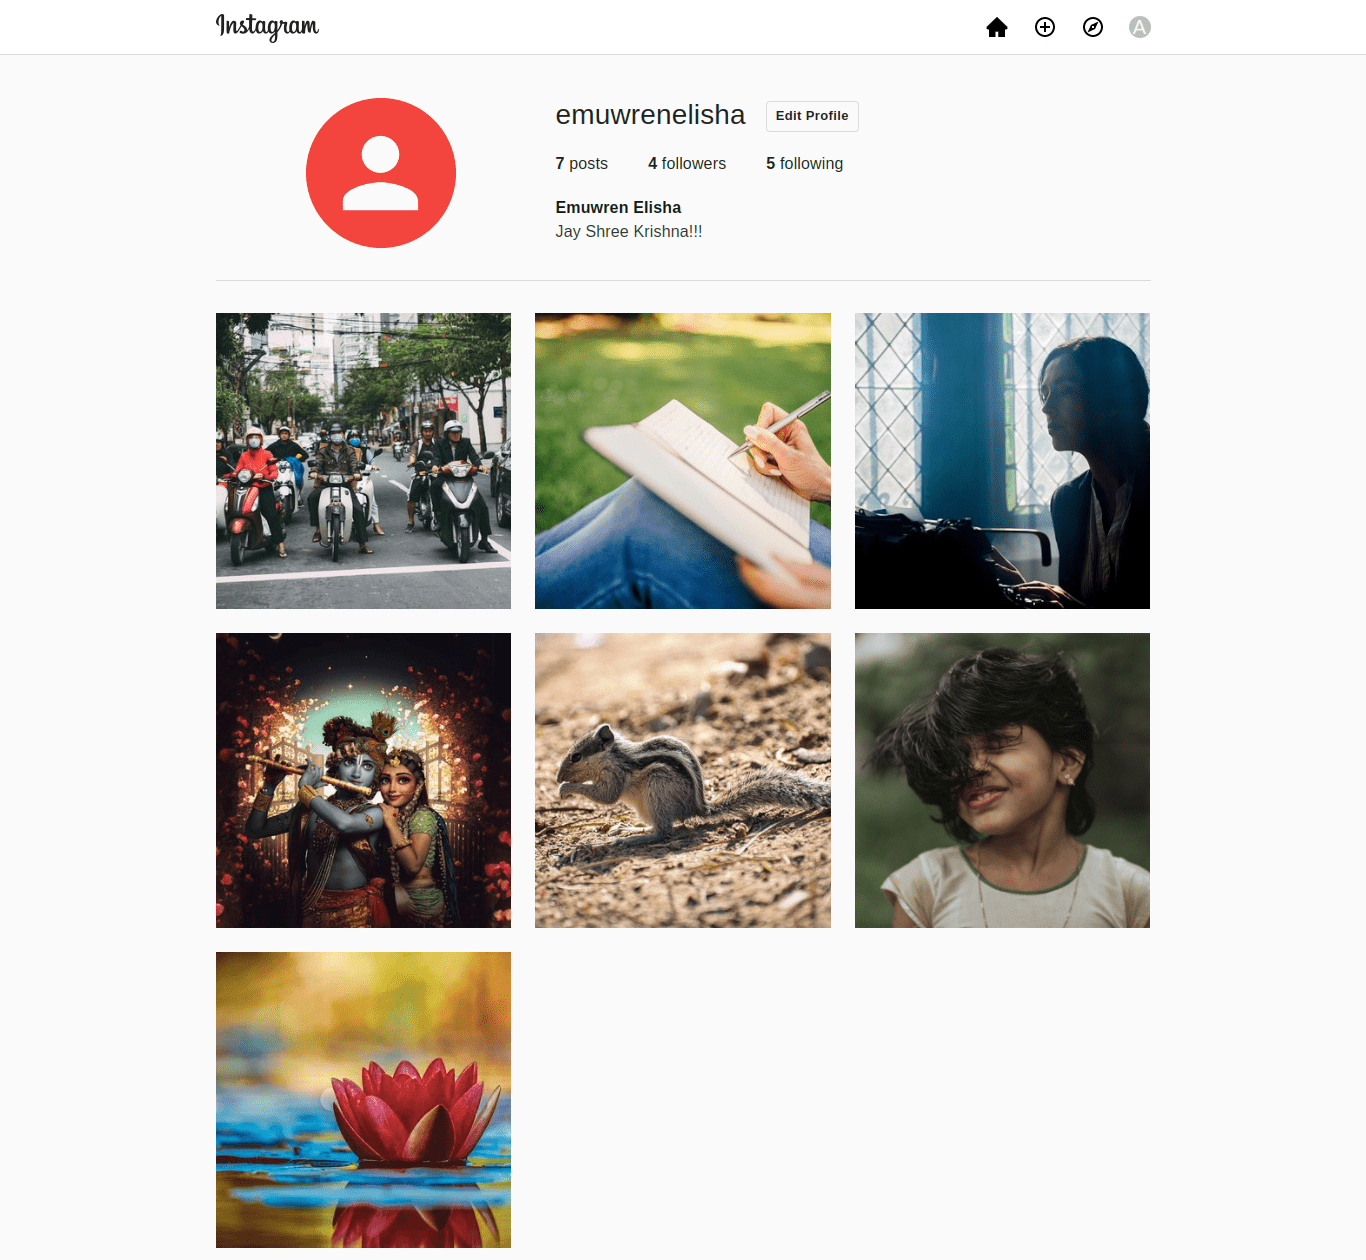
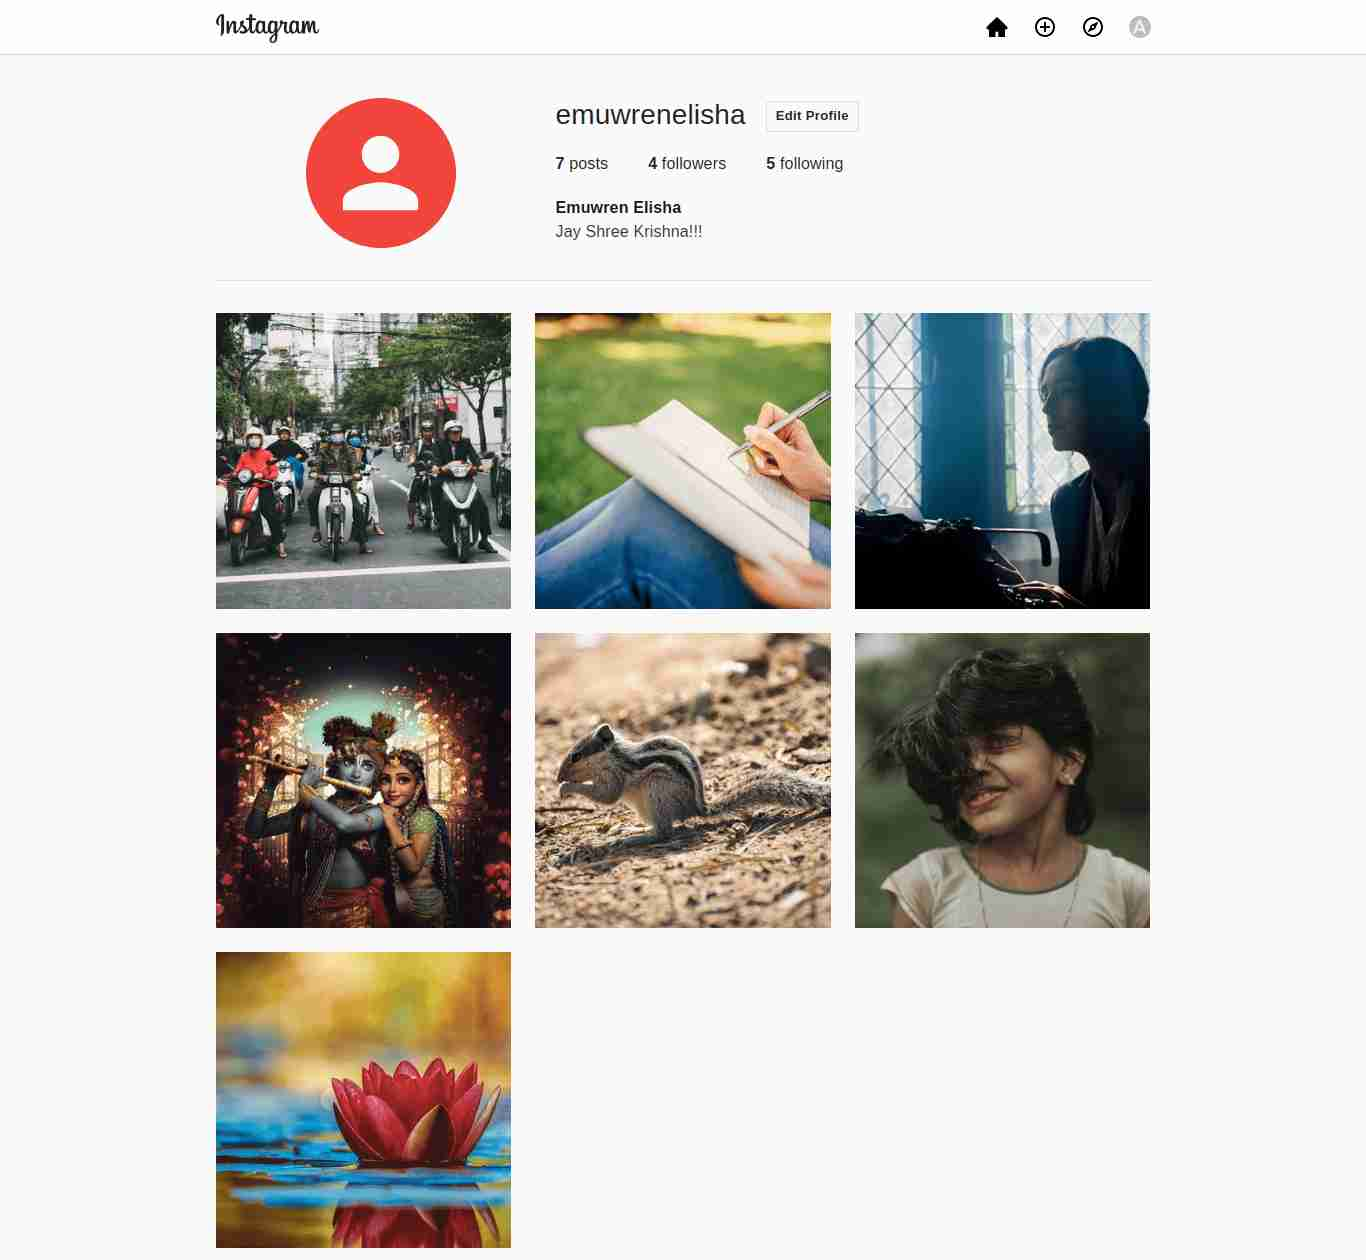
modified portfolio image size

diff --git a/src/pages/Codepen.jsx b/src/pages/Codepen.jsx
@@ -48,21 +48,13 @@ const CodepenCard = ({ id }) => {
 }
 
 const Codepen = () => {
-  const [items, setItems] = useState([])
   const [currentShow, setCurrentShow] = useState(0);
-
-
-  useEffect(() => {
-    setItems(codepens);
-    setCurrentShow(Math.floor(Math.random() * codepens.length))
-  }, [])
-
   const handlePrevClick = () => {
     if (currentShow > 0) {
       setCurrentShow((currentShow) => currentShow - 1);
     } else {
-      if (items.length > 0) {
-        setCurrentShow(items.length - 1);
+      if (codepens.length > 0) {
+        setCurrentShow(codepens.length - 1);
       } else {
         setCurrentShow(0);
       }
@@ -70,10 +62,10 @@ const Codepen = () => {
   }
 
   const handleNextClick = () => {
-    if (currentShow < items.length - 1) {
+    if (currentShow < codepens.length - 1) {
       setCurrentShow((currentShow) => currentShow + 1);
     } else {
-      if (currentShow >= items.length - 1) {
+      if (currentShow >= codepens.length - 1) {
         setCurrentShow(0);
       } else {
         setCurrentShow(0);
@@ -84,7 +76,7 @@ const Codepen = () => {
   return (
     <Section id='codepen' title='Codepen'>
       <div className='codepen-cards'>
-        <CodepenCard id={items[currentShow]}  />
+        <CodepenCard id={codepens[currentShow]} />
 
         <div className='d-flex justify-content-center'>
           <button

diff --git a/src/assets/portfolio/compress.php b/src/assets/portfolio/compress.php
@@ -1,0 +1,56 @@
+<?php
+// Function to compress images
+function compress_images($directory, $minSize, $quality = 20) {
+    // Step 1: Get all files in the directory with jpg, jpeg, or png extensions
+    $files = glob($directory . '/*.{jpg,jpeg,png}', GLOB_BRACE);
+    
+    echo ("Compressing...");
+    print_r($files);
+
+    // Step 2: Iterate through each file
+    foreach($files as $file) {
+
+        echo(fileSize($file));
+        // Step 3: Get the file size
+        $fileSize = filesize($file);
+
+        // Step 4: Check if the file size is greater than the minimum size
+        if ($fileSize > $minSize) {
+            // Step 5: Get the file extension
+            $extension = strtolower(pathinfo($file, PATHINFO_EXTENSION));
+
+            // Step 6: Check if the file is an image (jpg, jpeg, png)
+            if (in_array($extension, ['jpg', 'jpeg', 'png'])) {
+                // Step 7: Load the image based on its extension
+                switch ($extension) {
+                    case 'jpg':
+                    case 'jpeg':
+                        $image = imagecreatefromjpeg($file);
+                        break;
+                    case 'png':
+                        $image = imagecreatefrompng($file);
+                        break;
+                    default:
+                        break; // Skip unsupported file types
+                }
+
+                // Step 8: Compress the image
+                imagejpeg($image, $file, $quality);
+
+                // Step 9: Free up memory by destroying the image resource
+                imagedestroy($image);
+            }
+        }
+    }
+}
+
+// Step 10: Specify the directory containing the images
+$directory = "C:\Users\aashi\Documents\Projects\aacismaharjan\src\assets\portfolio";
+
+// Step 11: Specify the minimum size in bytes
+$minSize = 1024 * 1024; // 1MB
+$minSize /= 10; // Size of 50KB
+
+// Step 12: Compress images in the directory with size greater than minSize
+compress_images($directory, $minSize);
+?>
